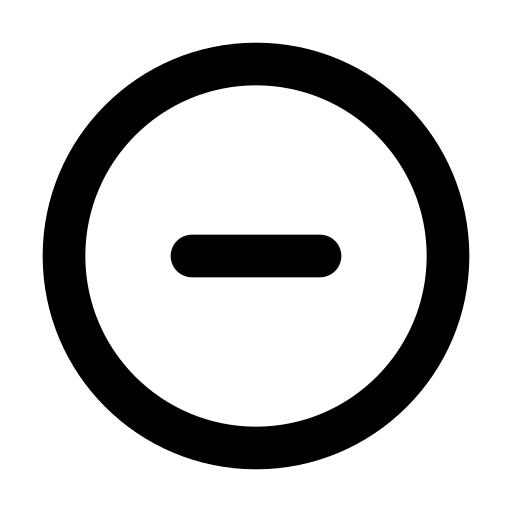
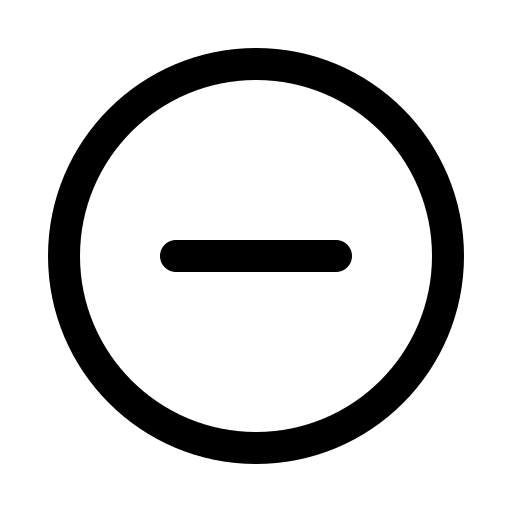
Feat: Added blogs

diff --git a/order.html b/order.html
@@ -391,23 +391,46 @@
 
                         <div style="width: 95%; height: 1px; background-color: black; margin: 1.5em 0;"></div>
 
-                        <div id="couponCode">
-                            <label for="coupon code" style="color: #4a4a4a"> Coupon Code </label>
-                            <div class="" style="display: flex; gap: 0.5em;">
-                                <input id="couponCodeInput" type="text"
-                                    style="padding: 1em; width: 70%; min-width: 15em; border-radius: 1em; border: none; border: 2px solid #2F8AB2;"
-                                    placeholder="Enter your Coupon Code" required>
 
-                                <div style="color: white; width: 30%; height: 4em;">
-                                    <button id="couponCodeBtn" type="button" class="button"
-                                        style="width: 100%; height: inherit; border-radius: 1em;"
-                                        onclick="verifyCouponCode(true)">
-                                        Apply
-                                    </button>
+
+
+                        <div id="couponForm">
+                            <div class="addCouponForm">
+                                <label for="coupon code" style="color: #4a4a4a"> Coupon Code </label>
+                                <div class="" style="display: flex; gap: 0.5em;">
+                                    <input id="couponCodeInput" type="text"
+                                        style="padding: 1em; width: 70%; min-width: 15em; border-radius: 1em; border: none; border: 2px solid #2F8AB2;"
+                                        placeholder="Enter your Coupon Code" required>
+
+                                    <div style="color: white; width: 30%; height: 4em;">
+                                        <button id="couponCodeBtn" type="button" class="button"
+                                            style="width: 100%; height: inherit; border-radius: 1em;"
+                                            onclick="verifyCouponCode(true)">
+                                            Apply
+                                        </button>
+                                    </div>
                                 </div>
+                                <p class="errorMessage" style="display: none; margin-top: 1em;"></p>
                             </div>
-                            <p class="errorMessage" style="display: none; margin-top: 1em;"></p>
+
+                            <div class="couponSummary"
+                                style="display: none; align-items: center; background-color: #00000018; padding: 1em; border-radius: 1em;">
+
+                                <div style="display: flex; gap: 1em; align-items: center;">
+                                    <div><img src="./assets/img/coupon.png" alt=""></div>
+                                    <div>
+                                        <strong id="couponOfferMsg"> YAY! You saved <span
+                                                id="offerAmmount">₹0</span></strong>
+                                        <p style="font-size: xx-small;">Coupon Applied</p>
+                                    </div>
+                                </div>
+                                <button style="background-color: transparent;margin-left: auto;"
+                                    class="removeCouponBtn" onclick="removeCoupon()"><img src="./assets//img/remove.png"
+                                        alt="Remove Coupon Button"></button>
+                            </div>
                         </div>
+
+
 
                         <div style="margin-top: 3em">
                             <h4>Price Details</h4>
@@ -422,13 +445,7 @@
                                     </p>
                                 </b>
 
-                                <!-- <p style="color: #2F8AB2; font-size: small; margin-top: 0.5em;">(Can be waved off if
-                                    you purchase our premium membership)
-                                </p> -->
-
                                 <b id="appliedCoupon" style="display: none; align-items: center; gap: 0.5em;">
-                                    <img src="./assets/img/coupon.png" style="height: 20px; width: 20px;" alt="">
-
                                     <p id="appliedCouponDetails"
                                         style="width: 100%; height: 20px; align-items: center;"></p>
                                 </b>

diff --git a/order.js b/order.js
@@ -23,10 +23,15 @@ const customerOtp = orderSummaryForm.querySelector("#customerOtp");
 const verifyOtpBtn = orderSummaryForm.querySelector("#verifyOtpBtn");
 const getOtpBtn = orderSummaryForm.querySelector("#getOtpBtn");
 
-const couponCodeElem = orderSummaryForm.querySelector("#couponCode");
-const couponCodeInput = couponCodeElem.querySelector("#couponCodeInput");
-const couponCodeBtn = couponCodeElem.querySelector("#couponCodeBtn");
-const couponCodeError = couponCodeElem.querySelector(".errorMessage");
+const couponCodeForm = orderSummaryForm.querySelector("#couponForm");
+const addCouponForm = couponCodeForm.querySelector("#addCouponForm");
+const couponCodeInput = addCouponForm.querySelector("#couponCodeInput");
+const couponCodeError = addCouponForm.querySelector(".errorMessage");
+const couponSummaryForm = couponCodeForm.querySelector("#couponSummary");
+const couponOfferMsgElem = couponSummaryForm.querySelector(
+  "#couponOfferMsg span"
+);
+// const couponCodeBtn = couponCodeElem.querySelector("#couponCodeBtn");
 
 const appliedCouponElem = orderSummaryForm.querySelector("#appliedCoupon");
 const appliedCouponDetails = orderSummaryForm.querySelector(
@@ -569,7 +574,7 @@ function setOrders(orderList) {
           <div style="display: flex; margin-top: 1em; align-items: center; gap: 0.5em">
 
             <button type="button" onclick="decItemCount(${index})" style="background: transparent">
-              <img src="./assets/img/remove.png" alt="" style="width: 28px; height: 28px;">
+              <img src="./assets/img/minus.png" alt="" style="width: 28px; height: 28px;">
             </button>
 
             <p id="itemCount-${index}">${productDetail.Count} unit</p>
@@ -619,12 +624,10 @@ if (
 
 let couponCode = "";
 function verifyCouponCode(bool) {
-  const couponCodeVal = bool && couponCodeInput.value;
-  couponCode = couponCodeVal;
+  const couponCodeVal = bool ? couponCodeInput.value : "";
 
-  if (couponCodeVal == "") {
+  if (bool) {
     couponCodeError.style.display = "block";
-    couponCodeError.style.color = "#ff5c5c";
     couponCodeError.innerHTML = "Please enter a coupon code!";
 
     couponCodeInput.addEventListener("input", () => {
@@ -634,26 +637,22 @@ function verifyCouponCode(bool) {
   } else {
     getCouponDetails(couponCodeVal).then((data) => {
       if (data.Status === 2) {
-        data.Result.Coupon.PreApply &&
-          (couponCodeInput.value = data.Result.Coupon.Code);
+        // findTotal();
+        // data.Result.Coupon.PreApply &&
+        //   ();
+        couponSummaryForm.style.display = "flex";
+        // data.Result.Coupon.Code;
+        couponName = data.Result.Coupon.Name;
 
-        couponCode = data.Result.Coupon.Code;
-
-        couponCodeBtn.innerHTML = "Applied!";
+        // couponCodeBtn.innerHTML = "Applied!";
 
         // get discount from response.
         const discountType = data.Result.Coupon.Type;
 
-        couponCodeError.style.display = "block";
-        couponCodeError.innerHTML =
+        couponOfferMsgElem.innerHTML =
           discountType == "Percentage"
-            ? `Hurray!! You got flat ${data.Result.Coupon.Value}% off`
-            : `Hurray!! You got flat ₹${data.Result.Coupon.Value} off`;
-
-        couponCodeError.style.display = "block";
-        couponCodeError.style.color = "#15803d";
-
-        findTotal();
+            ? `${data.Result.Coupon.Value}% off`
+            : `₹${data.Result.Coupon.Value} off`;
 
         const subTotal = orderObj.Subtotal;
 
@@ -670,16 +669,13 @@ function verifyCouponCode(bool) {
 
         appliedCouponElem.style.display = "flex";
         appliedCouponDetails.innerHTML = `
-      ${data.Result.Coupon.Code} <span style="float: right;">-₹${discountAmm}</span>
+          Coupon discount <span style="float: right;">-₹${discountAmm}</span>
       `;
       } else {
         findTotal();
 
         if (elem) {
-          findTotal();
-
           couponCodeError.style.display = "block";
-          couponCodeError.style.color = "#ff5c5c";
           couponCodeError.innerHTML = "Invalid Coupon Code!";
           // couponCodeError.innerHTML = data.Message;
 
@@ -696,6 +692,17 @@ function verifyCouponCode(bool) {
   }
 }
 verifyCouponCode();
+
+function removeCoupon() {
+  couponSummaryForm.style.display = "none";
+  addCouponForm.style.display = "block";
+
+  appliedCouponElem.style.display = "none";
+  appliedCouponDetails.innerHTML = "";
+
+  discountAmm = 0;
+  findTotal(discountAmm);
+}
 
 // localStorage.removeItem("orderList");
 

diff --git a/post/blog-2.html b/post/blog-2.html
@@ -82,7 +82,7 @@
                 <div data-w-id="36224846-361a-6ac1-bee7-12376eb167a3"
                     style="opacity:0;-webkit-transform:translate3d(0, 15px, 0) scale3d(1, 1, 1) rotateX(0) rotateY(0) rotateZ(0) skew(0, 0);-moz-transform:translate3d(0, 15px, 0) scale3d(1, 1, 1) rotateX(0) rotateY(0) rotateZ(0) skew(0, 0);-ms-transform:translate3d(0, 15px, 0) scale3d(1, 1, 1) rotateX(0) rotateY(0) rotateZ(0) skew(0, 0);transform:translate3d(0, 15px, 0) scale3d(1, 1, 1) rotateX(0) rotateY(0) rotateZ(0) skew(0, 0)"
                     class="subtitle-date">
-                    <div class="text-subtitle">December 16, 2022</div>
+                    <div class="text-subtitle">December 23, 2022</div>
                 </div>
                 <h1 data-w-id="fc0d34a5-3ea5-3271-0cbb-2e68d8723e7f"
                     style="opacity:0;-webkit-transform:translate3d(0, 15px, 0) scale3d(1, 1, 1) rotateX(0) rotateY(0) rotateZ(0) skew(0, 0);-moz-transform:translate3d(0, 15px, 0) scale3d(1, 1, 1) rotateX(0) rotateY(0) rotateZ(0) skew(0, 0);-ms-transform:translate3d(0, 15px, 0) scale3d(1, 1, 1) rotateX(0) rotateY(0) rotateZ(0) skew(0, 0);transform:translate3d(0, 15px, 0) scale3d(1, 1, 1) rotateX(0) rotateY(0) rotateZ(0) skew(0, 0)"

diff --git a/post/blog-6.html b/post/blog-6.html
@@ -82,7 +82,7 @@
                 <div data-w-id="36224846-361a-6ac1-bee7-12376eb167a3"
                     style="opacity:0;-webkit-transform:translate3d(0, 15px, 0) scale3d(1, 1, 1) rotateX(0) rotateY(0) rotateZ(0) skew(0, 0);-moz-transform:translate3d(0, 15px, 0) scale3d(1, 1, 1) rotateX(0) rotateY(0) rotateZ(0) skew(0, 0);-ms-transform:translate3d(0, 15px, 0) scale3d(1, 1, 1) rotateX(0) rotateY(0) rotateZ(0) skew(0, 0);transform:translate3d(0, 15px, 0) scale3d(1, 1, 1) rotateX(0) rotateY(0) rotateZ(0) skew(0, 0)"
                     class="subtitle-date">
-                    <div class="text-subtitle">December 16, 2022</div>
+                    <div class="text-subtitle">February 10, 2023</div>
                 </div>
                 <h1 data-w-id="fc0d34a5-3ea5-3271-0cbb-2e68d8723e7f"
                     style="opacity:0;-webkit-transform:translate3d(0, 15px, 0) scale3d(1, 1, 1) rotateX(0) rotateY(0) rotateZ(0) skew(0, 0);-moz-transform:translate3d(0, 15px, 0) scale3d(1, 1, 1) rotateX(0) rotateY(0) rotateZ(0) skew(0, 0);-ms-transform:translate3d(0, 15px, 0) scale3d(1, 1, 1) rotateX(0) rotateY(0) rotateZ(0) skew(0, 0);transform:translate3d(0, 15px, 0) scale3d(1, 1, 1) rotateX(0) rotateY(0) rotateZ(0) skew(0, 0)"

diff --git a/post/blog-1.html b/post/blog-1.html
@@ -82,7 +82,7 @@
                 <div data-w-id="36224846-361a-6ac1-bee7-12376eb167a3"
                     style="opacity:0;-webkit-transform:translate3d(0, 15px, 0) scale3d(1, 1, 1) rotateX(0) rotateY(0) rotateZ(0) skew(0, 0);-moz-transform:translate3d(0, 15px, 0) scale3d(1, 1, 1) rotateX(0) rotateY(0) rotateZ(0) skew(0, 0);-ms-transform:translate3d(0, 15px, 0) scale3d(1, 1, 1) rotateX(0) rotateY(0) rotateZ(0) skew(0, 0);transform:translate3d(0, 15px, 0) scale3d(1, 1, 1) rotateX(0) rotateY(0) rotateZ(0) skew(0, 0)"
                     class="subtitle-date">
-                    <div class="text-subtitle">December 16, 2022</div>
+                    <div class="text-subtitle">December 5, 2022</div>
                 </div>
                 <h1 data-w-id="fc0d34a5-3ea5-3271-0cbb-2e68d8723e7f"
                     style="opacity:0;-webkit-transform:translate3d(0, 15px, 0) scale3d(1, 1, 1) rotateX(0) rotateY(0) rotateZ(0) skew(0, 0);-moz-transform:translate3d(0, 15px, 0) scale3d(1, 1, 1) rotateX(0) rotateY(0) rotateZ(0) skew(0, 0);-ms-transform:translate3d(0, 15px, 0) scale3d(1, 1, 1) rotateX(0) rotateY(0) rotateZ(0) skew(0, 0);transform:translate3d(0, 15px, 0) scale3d(1, 1, 1) rotateX(0) rotateY(0) rotateZ(0) skew(0, 0)"

diff --git a/post/blog-3.html b/post/blog-3.html
@@ -82,7 +82,7 @@
                 <div data-w-id="36224846-361a-6ac1-bee7-12376eb167a3"
                     style="opacity:0;-webkit-transform:translate3d(0, 15px, 0) scale3d(1, 1, 1) rotateX(0) rotateY(0) rotateZ(0) skew(0, 0);-moz-transform:translate3d(0, 15px, 0) scale3d(1, 1, 1) rotateX(0) rotateY(0) rotateZ(0) skew(0, 0);-ms-transform:translate3d(0, 15px, 0) scale3d(1, 1, 1) rotateX(0) rotateY(0) rotateZ(0) skew(0, 0);transform:translate3d(0, 15px, 0) scale3d(1, 1, 1) rotateX(0) rotateY(0) rotateZ(0) skew(0, 0)"
                     class="subtitle-date">
-                    <div class="text-subtitle">December 16, 2022</div>
+                    <div class="text-subtitle">January 13, 2023</div>
                 </div>
                 <h1 data-w-id="fc0d34a5-3ea5-3271-0cbb-2e68d8723e7f"
                     style="opacity:0;-webkit-transform:translate3d(0, 15px, 0) scale3d(1, 1, 1) rotateX(0) rotateY(0) rotateZ(0) skew(0, 0);-moz-transform:translate3d(0, 15px, 0) scale3d(1, 1, 1) rotateX(0) rotateY(0) rotateZ(0) skew(0, 0);-ms-transform:translate3d(0, 15px, 0) scale3d(1, 1, 1) rotateX(0) rotateY(0) rotateZ(0) skew(0, 0);transform:translate3d(0, 15px, 0) scale3d(1, 1, 1) rotateX(0) rotateY(0) rotateZ(0) skew(0, 0)"

diff --git a/post/blog-4.html b/post/blog-4.html
@@ -82,7 +82,7 @@
                 <div data-w-id="36224846-361a-6ac1-bee7-12376eb167a3"
                     style="opacity:0;-webkit-transform:translate3d(0, 15px, 0) scale3d(1, 1, 1) rotateX(0) rotateY(0) rotateZ(0) skew(0, 0);-moz-transform:translate3d(0, 15px, 0) scale3d(1, 1, 1) rotateX(0) rotateY(0) rotateZ(0) skew(0, 0);-ms-transform:translate3d(0, 15px, 0) scale3d(1, 1, 1) rotateX(0) rotateY(0) rotateZ(0) skew(0, 0);transform:translate3d(0, 15px, 0) scale3d(1, 1, 1) rotateX(0) rotateY(0) rotateZ(0) skew(0, 0)"
                     class="subtitle-date">
-                    <div class="text-subtitle">December 16, 2022</div>
+                    <div class="text-subtitle">January 17, 2023</div>
                 </div>
                 <h1 data-w-id="fc0d34a5-3ea5-3271-0cbb-2e68d8723e7f"
                     style="opacity:0;-webkit-transform:translate3d(0, 15px, 0) scale3d(1, 1, 1) rotateX(0) rotateY(0) rotateZ(0) skew(0, 0);-moz-transform:translate3d(0, 15px, 0) scale3d(1, 1, 1) rotateX(0) rotateY(0) rotateZ(0) skew(0, 0);-ms-transform:translate3d(0, 15px, 0) scale3d(1, 1, 1) rotateX(0) rotateY(0) rotateZ(0) skew(0, 0);transform:translate3d(0, 15px, 0) scale3d(1, 1, 1) rotateX(0) rotateY(0) rotateZ(0) skew(0, 0)"

diff --git a/post/blog-5.html b/post/blog-5.html
@@ -82,7 +82,7 @@
                 <div data-w-id="36224846-361a-6ac1-bee7-12376eb167a3"
                     style="opacity:0;-webkit-transform:translate3d(0, 15px, 0) scale3d(1, 1, 1) rotateX(0) rotateY(0) rotateZ(0) skew(0, 0);-moz-transform:translate3d(0, 15px, 0) scale3d(1, 1, 1) rotateX(0) rotateY(0) rotateZ(0) skew(0, 0);-ms-transform:translate3d(0, 15px, 0) scale3d(1, 1, 1) rotateX(0) rotateY(0) rotateZ(0) skew(0, 0);transform:translate3d(0, 15px, 0) scale3d(1, 1, 1) rotateX(0) rotateY(0) rotateZ(0) skew(0, 0)"
                     class="subtitle-date">
-                    <div class="text-subtitle">December 16, 2022</div>
+                    <div class="text-subtitle">January 20, 2023</div>
                 </div>
                 <h1 data-w-id="fc0d34a5-3ea5-3271-0cbb-2e68d8723e7f"
                     style="opacity:0;-webkit-transform:translate3d(0, 15px, 0) scale3d(1, 1, 1) rotateX(0) rotateY(0) rotateZ(0) skew(0, 0);-moz-transform:translate3d(0, 15px, 0) scale3d(1, 1, 1) rotateX(0) rotateY(0) rotateZ(0) skew(0, 0);-ms-transform:translate3d(0, 15px, 0) scale3d(1, 1, 1) rotateX(0) rotateY(0) rotateZ(0) skew(0, 0);transform:translate3d(0, 15px, 0) scale3d(1, 1, 1) rotateX(0) rotateY(0) rotateZ(0) skew(0, 0)"

diff --git a/post/blog-9.html b/post/blog-9.html
@@ -82,7 +82,7 @@
                 <div data-w-id="36224846-361a-6ac1-bee7-12376eb167a3"
                     style="opacity:0;-webkit-transform:translate3d(0, 15px, 0) scale3d(1, 1, 1) rotateX(0) rotateY(0) rotateZ(0) skew(0, 0);-moz-transform:translate3d(0, 15px, 0) scale3d(1, 1, 1) rotateX(0) rotateY(0) rotateZ(0) skew(0, 0);-ms-transform:translate3d(0, 15px, 0) scale3d(1, 1, 1) rotateX(0) rotateY(0) rotateZ(0) skew(0, 0);transform:translate3d(0, 15px, 0) scale3d(1, 1, 1) rotateX(0) rotateY(0) rotateZ(0) skew(0, 0)"
                     class="subtitle-date">
-                    <div class="text-subtitle">December 16, 2022</div>
+                    <div class="text-subtitle">March 24, 2023</div>
                 </div>
                 <h1 data-w-id="fc0d34a5-3ea5-3271-0cbb-2e68d8723e7f"
                     style="opacity:0;-webkit-transform:translate3d(0, 15px, 0) scale3d(1, 1, 1) rotateX(0) rotateY(0) rotateZ(0) skew(0, 0);-moz-transform:translate3d(0, 15px, 0) scale3d(1, 1, 1) rotateX(0) rotateY(0) rotateZ(0) skew(0, 0);-ms-transform:translate3d(0, 15px, 0) scale3d(1, 1, 1) rotateX(0) rotateY(0) rotateZ(0) skew(0, 0);transform:translate3d(0, 15px, 0) scale3d(1, 1, 1) rotateX(0) rotateY(0) rotateZ(0) skew(0, 0)"

diff --git a/post/blog-10.html b/post/blog-10.html
@@ -82,7 +82,7 @@
                 <div data-w-id="36224846-361a-6ac1-bee7-12376eb167a3"
                     style="opacity:0;-webkit-transform:translate3d(0, 15px, 0) scale3d(1, 1, 1) rotateX(0) rotateY(0) rotateZ(0) skew(0, 0);-moz-transform:translate3d(0, 15px, 0) scale3d(1, 1, 1) rotateX(0) rotateY(0) rotateZ(0) skew(0, 0);-ms-transform:translate3d(0, 15px, 0) scale3d(1, 1, 1) rotateX(0) rotateY(0) rotateZ(0) skew(0, 0);transform:translate3d(0, 15px, 0) scale3d(1, 1, 1) rotateX(0) rotateY(0) rotateZ(0) skew(0, 0)"
                     class="subtitle-date">
-                    <div class="text-subtitle">December 16, 2022</div>
+                    <div class="text-subtitle">April 6, 2023</div>
                 </div>
                 <h1 data-w-id="fc0d34a5-3ea5-3271-0cbb-2e68d8723e7f"
                     style="opacity:0;-webkit-transform:translate3d(0, 15px, 0) scale3d(1, 1, 1) rotateX(0) rotateY(0) rotateZ(0) skew(0, 0);-moz-transform:translate3d(0, 15px, 0) scale3d(1, 1, 1) rotateX(0) rotateY(0) rotateZ(0) skew(0, 0);-ms-transform:translate3d(0, 15px, 0) scale3d(1, 1, 1) rotateX(0) rotateY(0) rotateZ(0) skew(0, 0);transform:translate3d(0, 15px, 0) scale3d(1, 1, 1) rotateX(0) rotateY(0) rotateZ(0) skew(0, 0)"

diff --git a/post/blog-7.html b/post/blog-7.html
@@ -82,7 +82,7 @@
                 <div data-w-id="36224846-361a-6ac1-bee7-12376eb167a3"
                     style="opacity:0;-webkit-transform:translate3d(0, 15px, 0) scale3d(1, 1, 1) rotateX(0) rotateY(0) rotateZ(0) skew(0, 0);-moz-transform:translate3d(0, 15px, 0) scale3d(1, 1, 1) rotateX(0) rotateY(0) rotateZ(0) skew(0, 0);-ms-transform:translate3d(0, 15px, 0) scale3d(1, 1, 1) rotateX(0) rotateY(0) rotateZ(0) skew(0, 0);transform:translate3d(0, 15px, 0) scale3d(1, 1, 1) rotateX(0) rotateY(0) rotateZ(0) skew(0, 0)"
                     class="subtitle-date">
-                    <div class="text-subtitle">December 16, 2022</div>
+                    <div class="text-subtitle">March 3, 2023</div>
                 </div>
                 <h1 data-w-id="fc0d34a5-3ea5-3271-0cbb-2e68d8723e7f"
                     style="opacity:0;-webkit-transform:translate3d(0, 15px, 0) scale3d(1, 1, 1) rotateX(0) rotateY(0) rotateZ(0) skew(0, 0);-moz-transform:translate3d(0, 15px, 0) scale3d(1, 1, 1) rotateX(0) rotateY(0) rotateZ(0) skew(0, 0);-ms-transform:translate3d(0, 15px, 0) scale3d(1, 1, 1) rotateX(0) rotateY(0) rotateZ(0) skew(0, 0);transform:translate3d(0, 15px, 0) scale3d(1, 1, 1) rotateX(0) rotateY(0) rotateZ(0) skew(0, 0)"

diff --git a/post/blog-8.html b/post/blog-8.html
@@ -82,7 +82,7 @@
                 <div data-w-id="36224846-361a-6ac1-bee7-12376eb167a3"
                     style="opacity:0;-webkit-transform:translate3d(0, 15px, 0) scale3d(1, 1, 1) rotateX(0) rotateY(0) rotateZ(0) skew(0, 0);-moz-transform:translate3d(0, 15px, 0) scale3d(1, 1, 1) rotateX(0) rotateY(0) rotateZ(0) skew(0, 0);-ms-transform:translate3d(0, 15px, 0) scale3d(1, 1, 1) rotateX(0) rotateY(0) rotateZ(0) skew(0, 0);transform:translate3d(0, 15px, 0) scale3d(1, 1, 1) rotateX(0) rotateY(0) rotateZ(0) skew(0, 0)"
                     class="subtitle-date">
-                    <div class="text-subtitle">December 16, 2022</div>
+                    <div class="text-subtitle">March 9, 2023</div>
                 </div>
                 <h1 data-w-id="fc0d34a5-3ea5-3271-0cbb-2e68d8723e7f"
                     style="opacity:0;-webkit-transform:translate3d(0, 15px, 0) scale3d(1, 1, 1) rotateX(0) rotateY(0) rotateZ(0) skew(0, 0);-moz-transform:translate3d(0, 15px, 0) scale3d(1, 1, 1) rotateX(0) rotateY(0) rotateZ(0) skew(0, 0);-ms-transform:translate3d(0, 15px, 0) scale3d(1, 1, 1) rotateX(0) rotateY(0) rotateZ(0) skew(0, 0);transform:translate3d(0, 15px, 0) scale3d(1, 1, 1) rotateX(0) rotateY(0) rotateZ(0) skew(0, 0)"
